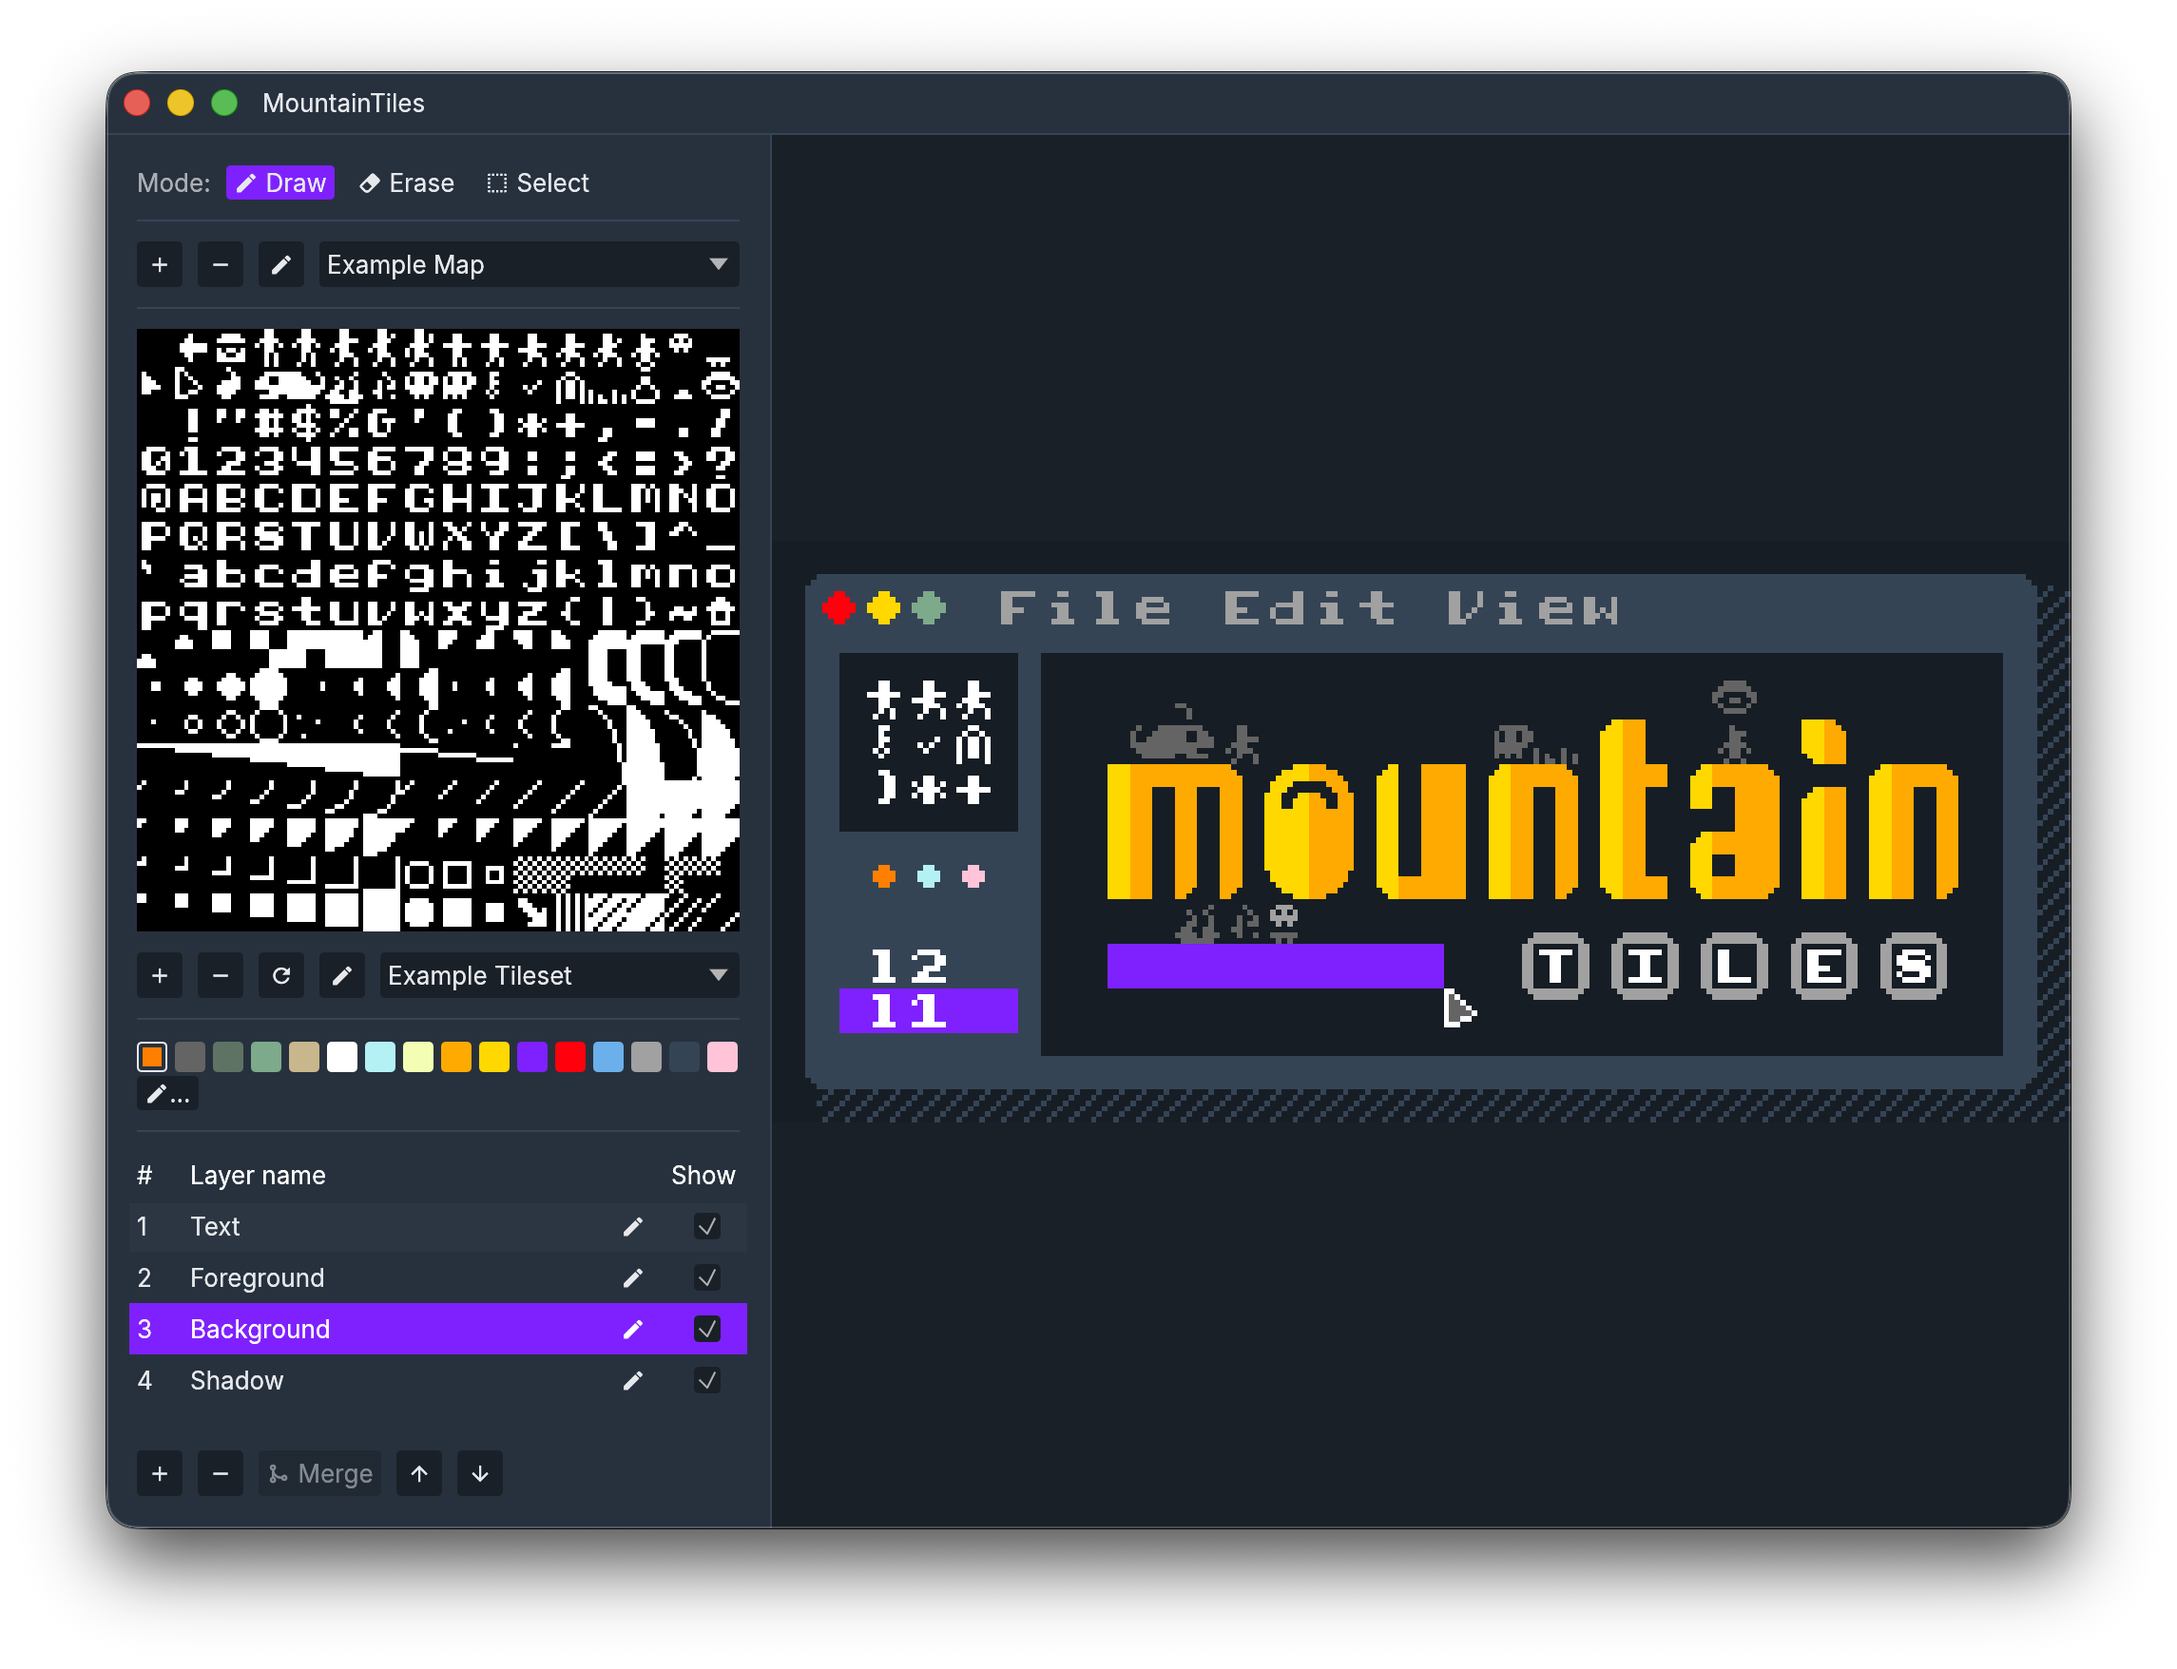
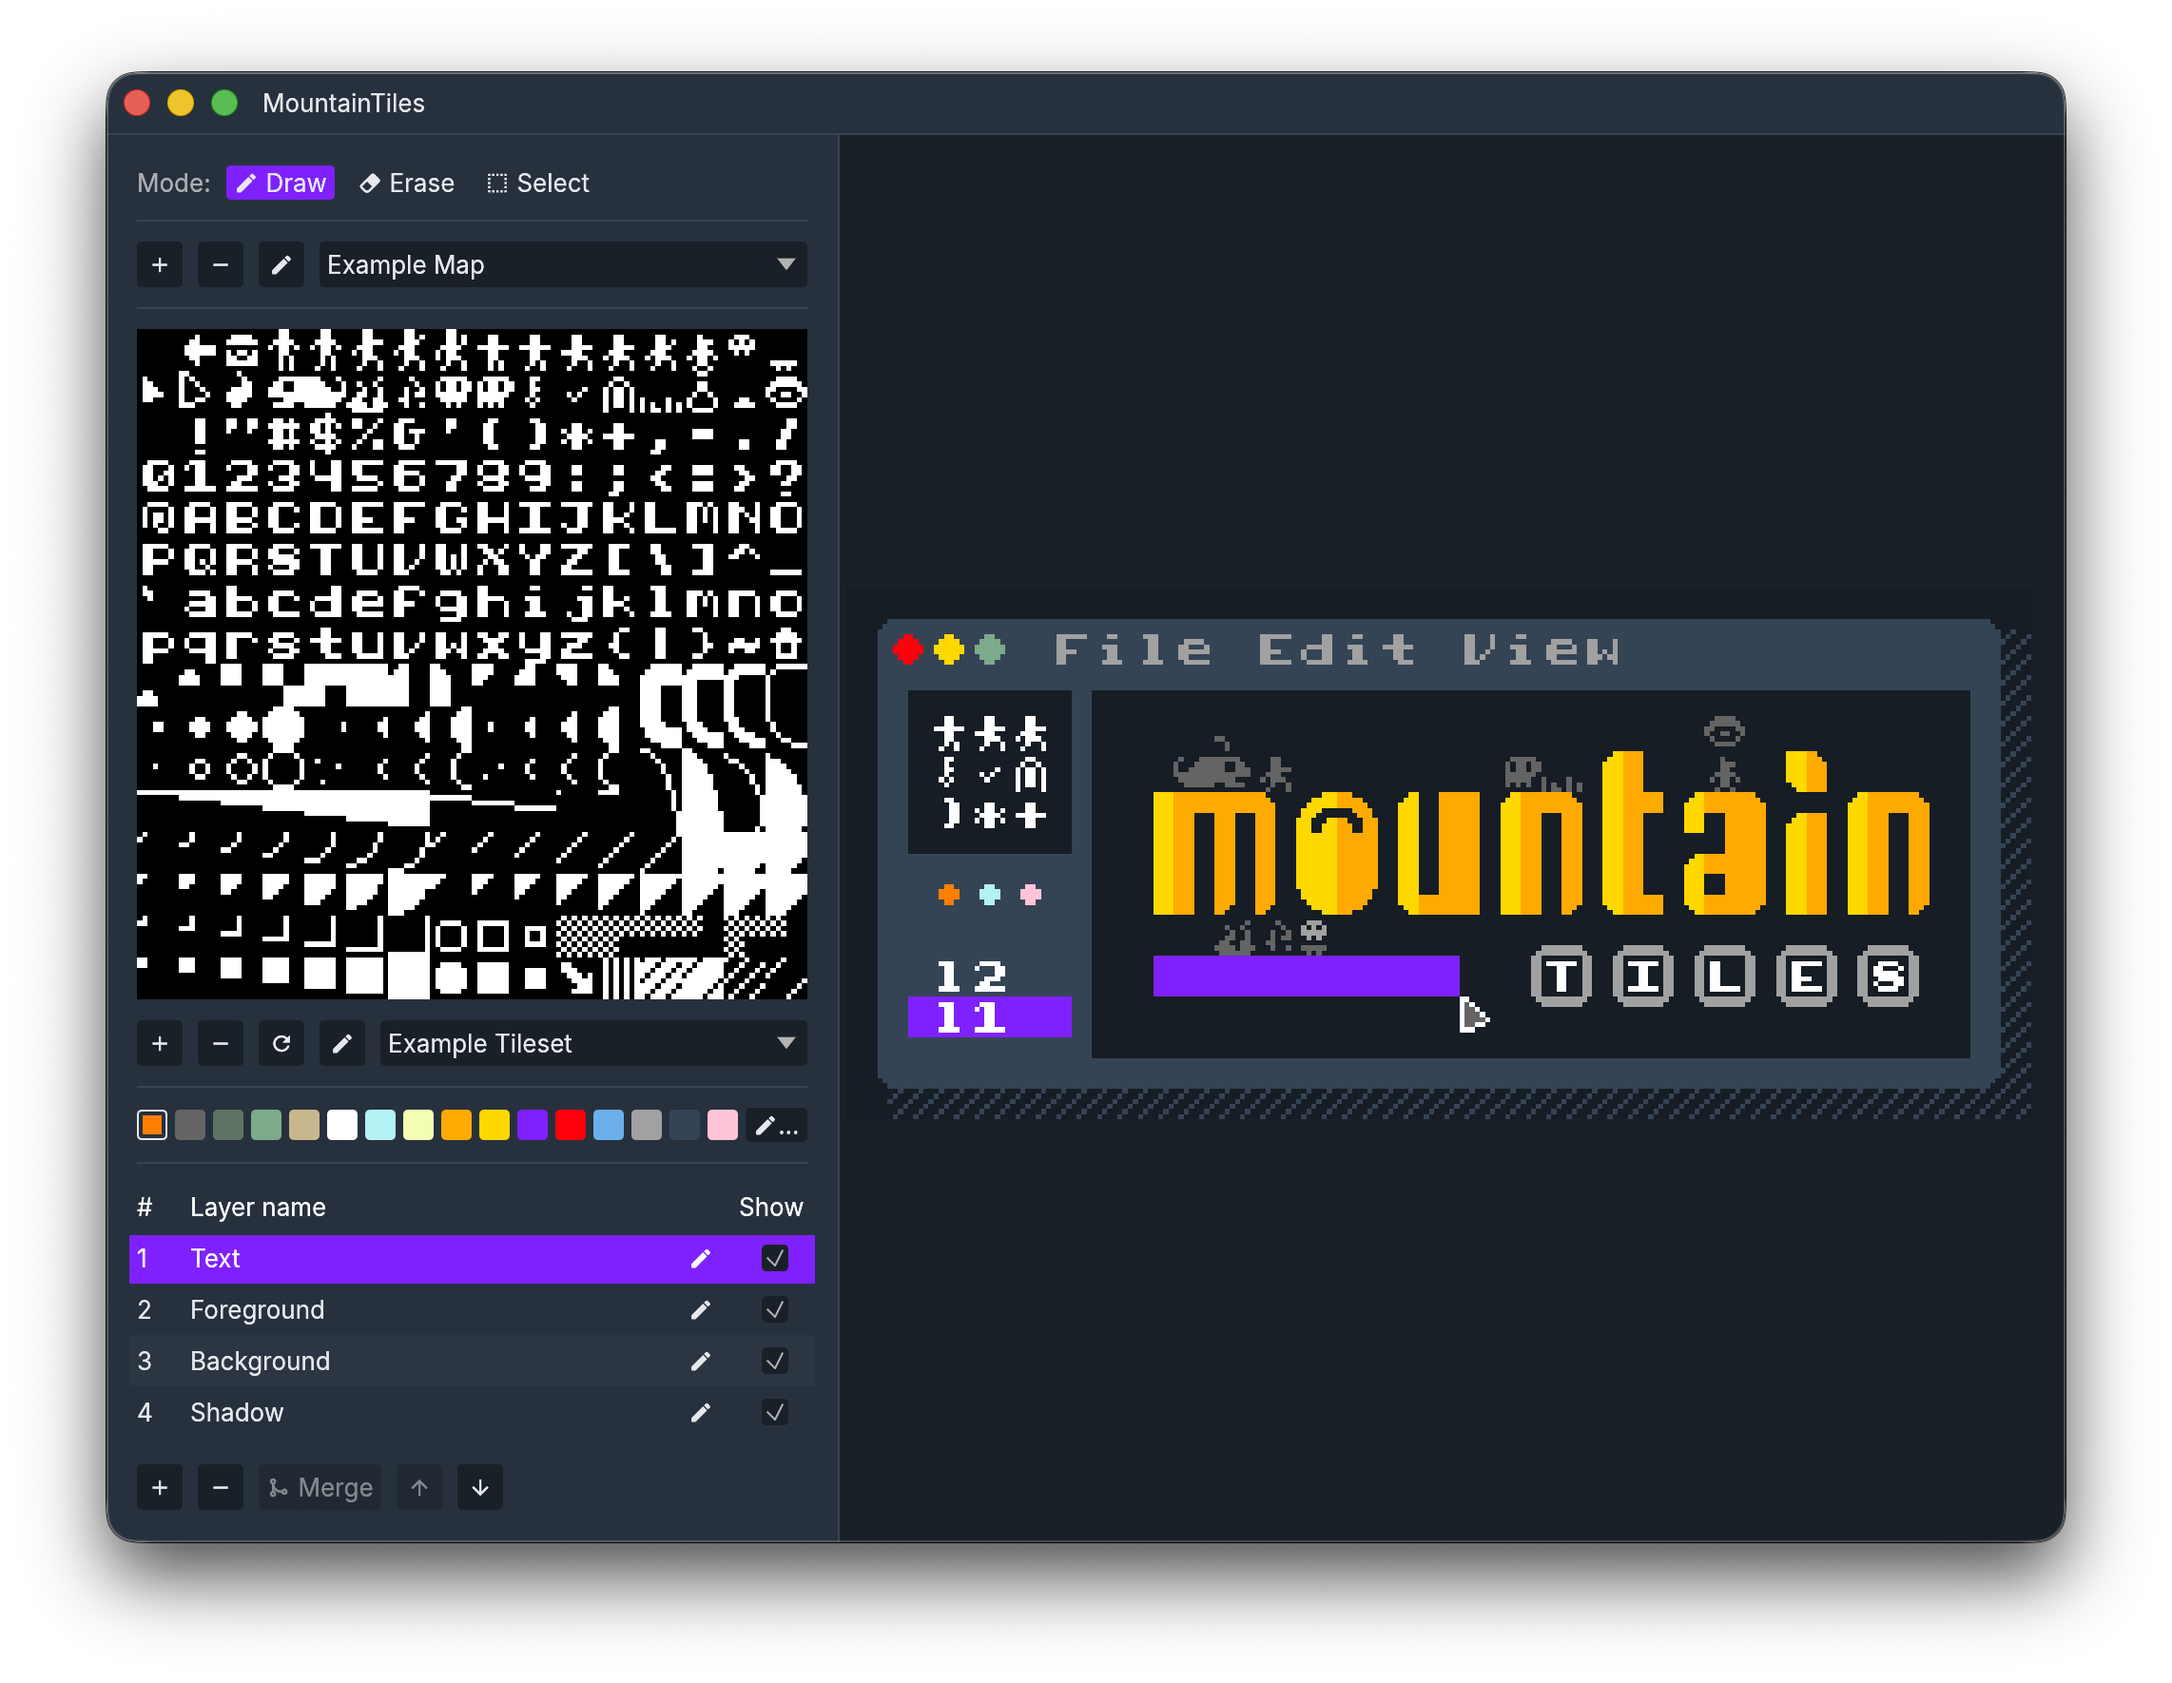
Update screenshot for better layout

diff --git a/README.md b/README.md
@@ -3,7 +3,7 @@
 A tile-based map/image editor using [`egui`](https://www.egui.rs), coded by humans without AI.
 
 <!-- markdownlint-disable MD033 -->
-<img src="screenshot.png" alt="Mountain Tiles editor showing the example map" width="1145"/>
+<img src="screenshot.png" alt="Mountain Tiles editor showing the example map" width="1142"/>
 <!-- markdownlint-enable MD033 -->
 
 Note that this project is developed on [Codeberg](https://codeberg.org/mountainlizard/mountain-tiles), please use this project for issues, pull requests etc. There is a mirror on GitHub but this is only used for [building releases](https://github.com/mountainlizard/mountain-tiles/releases).
